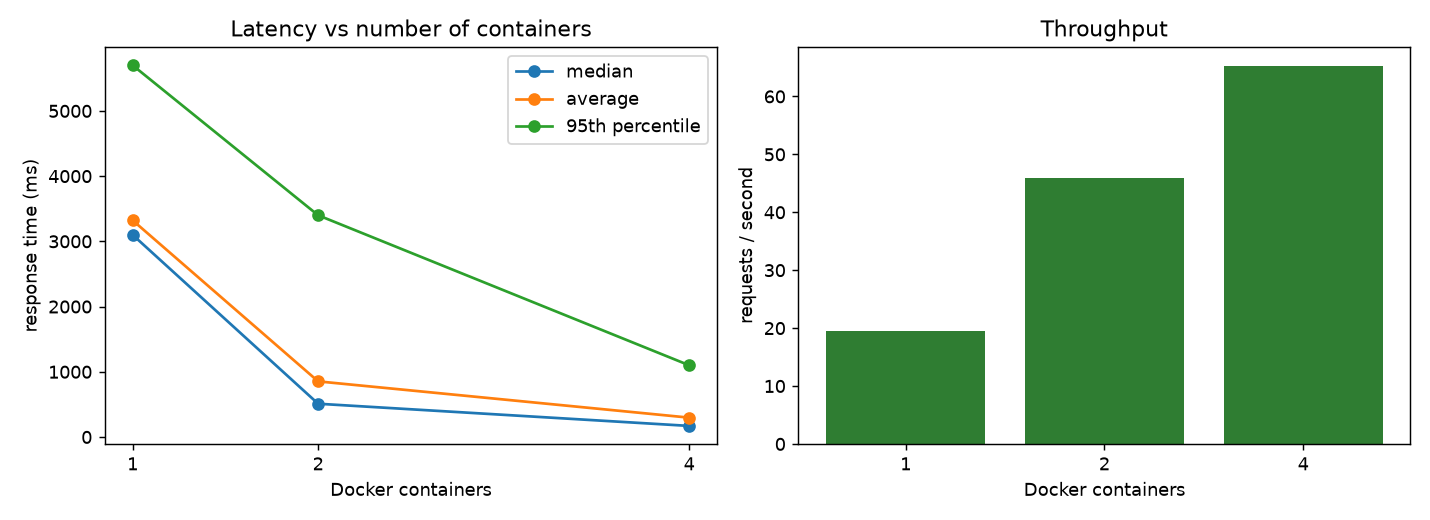
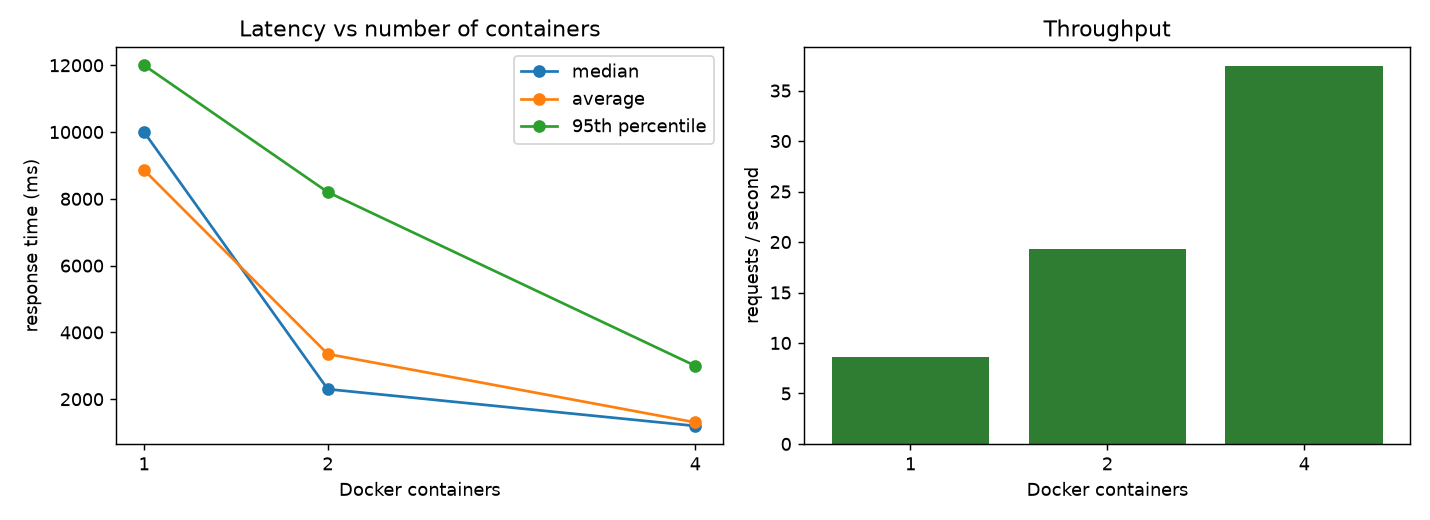
containers

diff --git a/api/main.py b/api/main.py
@@ -90,8 +90,9 @@ async def count_requests(request: Request, call_next):
 
 
 @app.get("/health", tags=["monitoring"])
-def health():
-    """Is the API up, how long has it been up, and which model is it serving?"""
+async def health():
+    """Is the API up, how long has it been up, and which model is it serving?
+    Async, so it answers immediately even while every worker thread is busy predicting."""
     predictor = _predictor
     return {
         "status": "ok" if predictor else "model_not_loaded",
@@ -104,7 +105,7 @@ def health():
 
 
 @app.get("/stats", tags=["monitoring"])
-def stats():
+async def stats():
     """Request counts and prediction latency for THIS container."""
     latencies = sorted(LATENCIES_MS)
 

diff --git a/scripts/run_load_tests.py b/scripts/run_load_tests.py
@@ -63,7 +63,7 @@ def main():
         print(f"\n===== {n} container(s) =====", flush=True)
         run(["docker", "compose", "up", "-d", "--scale", f"api={n}"])
         wait_for_containers(n)
-        time.sleep(5)              # let the last container finish its warm-up
+        time.sleep(10)             # let the containers settle (and the previous run's queue drain)
         run([sys.executable, "-m", "locust", "-f", "locustfile.py", "--host", HOST, "--headless",
              "-u", str(args.users), "-r", str(args.spawn_rate), "-t", args.duration,
              "--csv", str(RESULTS / f"{n}_containers"), "--only-summary"])

diff --git a/load_test_results/summary.md b/load_test_results/summary.md
@@ -2,6 +2,6 @@
 
 | Containers | Requests | Failures | Throughput (req/s) | Avg (ms) | Median (ms) | p95 (ms) | p99 (ms) | Max (ms) |
 |---:|---:|---:|---:|---:|---:|---:|---:|---:|
-| 1 | 1108 | 0 | 19.5 | 3323 | 3100 | 5700 | 6200 | 7019 |
-| 2 | 2742 | 0 | 46.0 | 853 | 510 | 3400 | 4200 | 5515 |
-| 4 | 3781 | 0 | 65.2 | 297 | 170 | 1100 | 1600 | 2671 |
+| 1 | 502 | 0 | 8.6 | 8862 | 10000 | 12000 | 15000 | 16641 |
+| 2 | 1134 | 0 | 19.3 | 3352 | 2300 | 8200 | 8600 | 12012 |
+| 4 | 2235 | 0 | 37.4 | 1306 | 1200 | 3000 | 3900 | 6919 |
